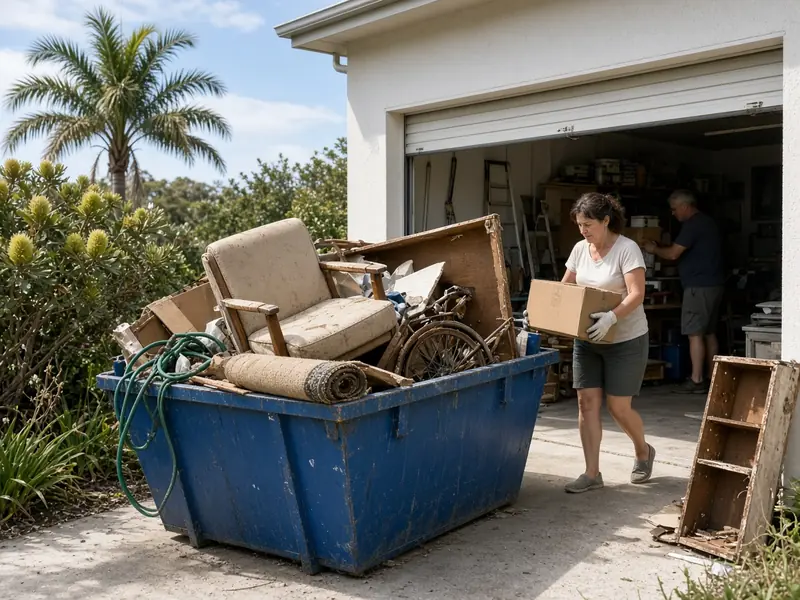
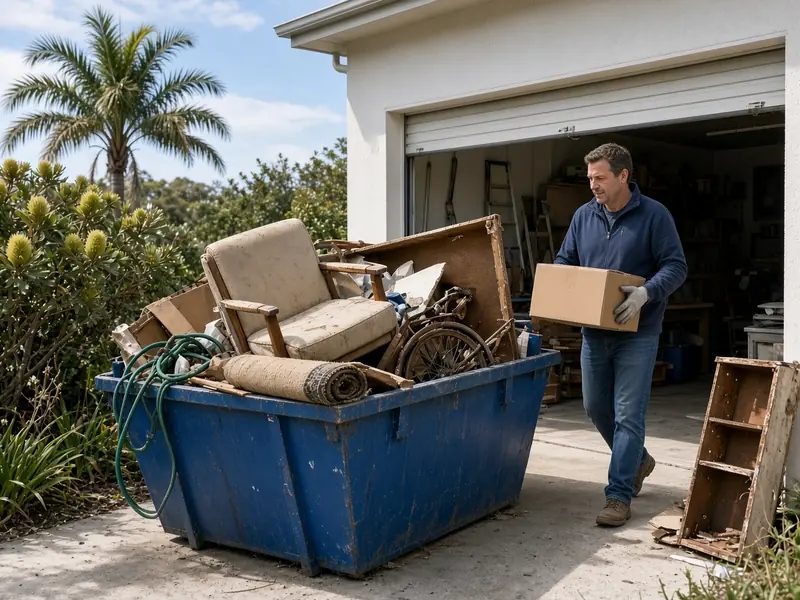
Commercial & industrial card, new garage clean-out photo, hook-lift FAQ

diff --git a/index.html b/index.html
@@ -248,6 +248,14 @@
   },
   {
    "@type": "Question",
+   "name": "What about bigger bins for commercial or industrial sites?",
+   "acceptedAnswer": {
+    "@type": "Answer",
+    "text": "Factories, warehouses, shop fit-outs and larger building sites often use hook-lift bins, which are bigger roll-on containers carried on a hook-lift truck. Not every operator has them and they need more space and firm access, so mention the site, the waste (for example pallets, scrap metal or fit-out waste) and the space available in your quote request."
+   }
+  },
+  {
+   "@type": "Question",
    "name": "Who will actually deliver my skip?",
    "acceptedAnswer": {
     "@type": "Answer",
@@ -479,10 +487,10 @@
 <section id="jobs" aria-labelledby="jobs-h">
   <div class="wrap">
     <h2 id="jobs-h">Common jobs in Nowra</h2>
-    <p class="intro">Here's what skips are most often used for around the Shoalhaven, with a rough size for each. Sizes are guides only.</p>
+    <p class="intro">Here's what skips are most often used for around the Shoalhaven, from home clean-outs to commercial and industrial sites, with a rough size for each. Sizes are guides only.</p>
     <div class="photo-cards">
       <a class="photo-card" href="#sizes">
-        <span class="pc-img"><img src="img/job-garage-cleanout.webp" width="800" height="600" loading="lazy" decoding="async" alt="Family clearing out a garage into a skip bin at a coastal home"></span>
+        <span class="pc-img"><img src="img/job-garage-cleanout.webp" width="800" height="600" loading="lazy" decoding="async" alt="Man carrying a box from a garage to a skip bin at a coastal home"></span>
         <span class="pc-body"><span class="pc-icon"><svg viewBox="0 0 24 24" aria-hidden="true"><path fill="currentColor" d="M12 3 2 11h3v9h5v-6h4v6h5v-9h3z"/></svg></span><strong class="pc-title">Home &amp; garage clean-outs</strong><span class="pc-text">Old furniture, boxes and years of clutter. A 2–3 m³ skip covers most single garages. A whole house is more like 6–8 m³.</span></span>
       </a>
       <a class="photo-card" href="#sizes">
@@ -493,9 +501,9 @@
         <span class="pc-img"><img src="img/job-green-waste.webp" width="800" height="600" loading="lazy" decoding="async" alt="Skip bin piled with branches and garden waste on a backyard lawn"></span>
         <span class="pc-body"><span class="pc-icon"><svg viewBox="0 0 24 24" aria-hidden="true"><path fill="currentColor" d="M20 3C10 3 4 8 4 15c0 1.6.4 3 1 4.2L3.3 21l1.4 1.4 1.8-1.8C7.8 21.5 9.3 22 11 22c6.6 0 10-6 9-19zM8 18c2-4 5-7 9-9-3 3-5 6-7 10z"/></svg></span><strong class="pc-title">Green waste &amp; storm clean-ups</strong><span class="pc-text">Branches and leaves after a storm or bushfire-season clearing. Green waste on its own is often cheaper to tip, so ask for a green-waste skip.</span></span>
       </a>
-      <a class="photo-card" href="#sizes">
-        <span class="pc-img pc-svg"><img src="img/skip-6m3.svg" width="560" height="200" loading="lazy" decoding="async" alt="6 cubic metre skip bin size guide, shown next to an adult for scale"></span>
-        <span class="pc-body"><span class="pc-icon"><svg viewBox="0 0 24 24" aria-hidden="true"><path fill="currentColor" d="M3 17 17 3l4 4L7 21zm4-1 1.4 1.4 1.4-1.4-1.4-1.4zm3-3 1.4 1.4 1.4-1.4-1.4-1.4zm3-3 1.4 1.4 1.4-1.4-1.4-1.4z"/></svg></span><strong class="pc-title">Skip sizes</strong><span class="pc-text">Not sure how big? Compare 2 to 12 m³ skips with wheelie-bin and trailer equivalents.</span></span>
+      <a class="photo-card" href="#quote">
+        <span class="pc-img"><img src="img/job-industrial.webp" width="800" height="600" loading="lazy" decoding="async" alt="Worker loading pallets into a large bin at a warehouse in an industrial estate"></span>
+        <span class="pc-body"><span class="pc-icon"><svg viewBox="0 0 24 24" aria-hidden="true"><path fill="currentColor" d="M2 21V10l5 3V10l5 3V10l5 3V3h4v18zm4-3h2v-2H6zm4 0h2v-2h-2zm4 0h2v-2h-2z"/></svg></span><strong class="pc-title">Commercial &amp; industrial</strong><span class="pc-text">Factory and warehouse clean-ups, shop fit-out waste, pallets and scrap metal. Bigger sites may suit a larger hook-lift bin, so describe the job and access in your quote request.</span></span>
       </a>
     </div>
     <div class="grid grid-2 more-jobs">
@@ -520,6 +528,7 @@
     <details><summary>Can I put a mattress, tyres or a fridge in a skip?</summary><p>Often not in a standard load. Many operators charge extra per mattress or tyre, and fridges and freezers may be refused because of the gases they contain. List these items on the form so the operator can tell you what they accept and what it costs.</p></details>
     <details><summary>Skip bin or skip bag: which is better?</summary><p>A skip bag suits a small job, a tight space or a site where a truck can't put a bin down, and some operators collect it with a crane truck. A skip bin suits larger or heavier loads. Ask for both options if you're not sure.</p></details>
     <details><summary>Can the skip go on a sloping or gravel driveway, and do I need to be home?</summary><p>Usually yes to both questions, within limits. Drivers need a firm, reasonably level spot with clear access and no low wires or branches. Very steep, soft or narrow driveways can be a problem. You often don't need to be home for delivery if you leave clear instructions. Mention any access issues on the form.</p></details>
+    <details><summary>What about bigger bins for commercial or industrial sites?</summary><p>Factories, warehouses, shop fit-outs and larger building sites often use hook-lift bins, which are bigger roll-on containers carried on a hook-lift truck. Not every operator has them and they need more space and firm access, so mention the site, the waste (for example pallets, scrap metal or fit-out waste) and the space available in your quote request.</p></details>
     <details><summary>Who will actually deliver my skip?</summary><p>This website is a referral and quote service run by Raf Web Studio. We don't own trucks or bins. We pass your enquiry to one local skip bin operator who services your area, and they confirm the price, delivery time and hire terms with you directly.</p></details>
   </div>
 </section>
